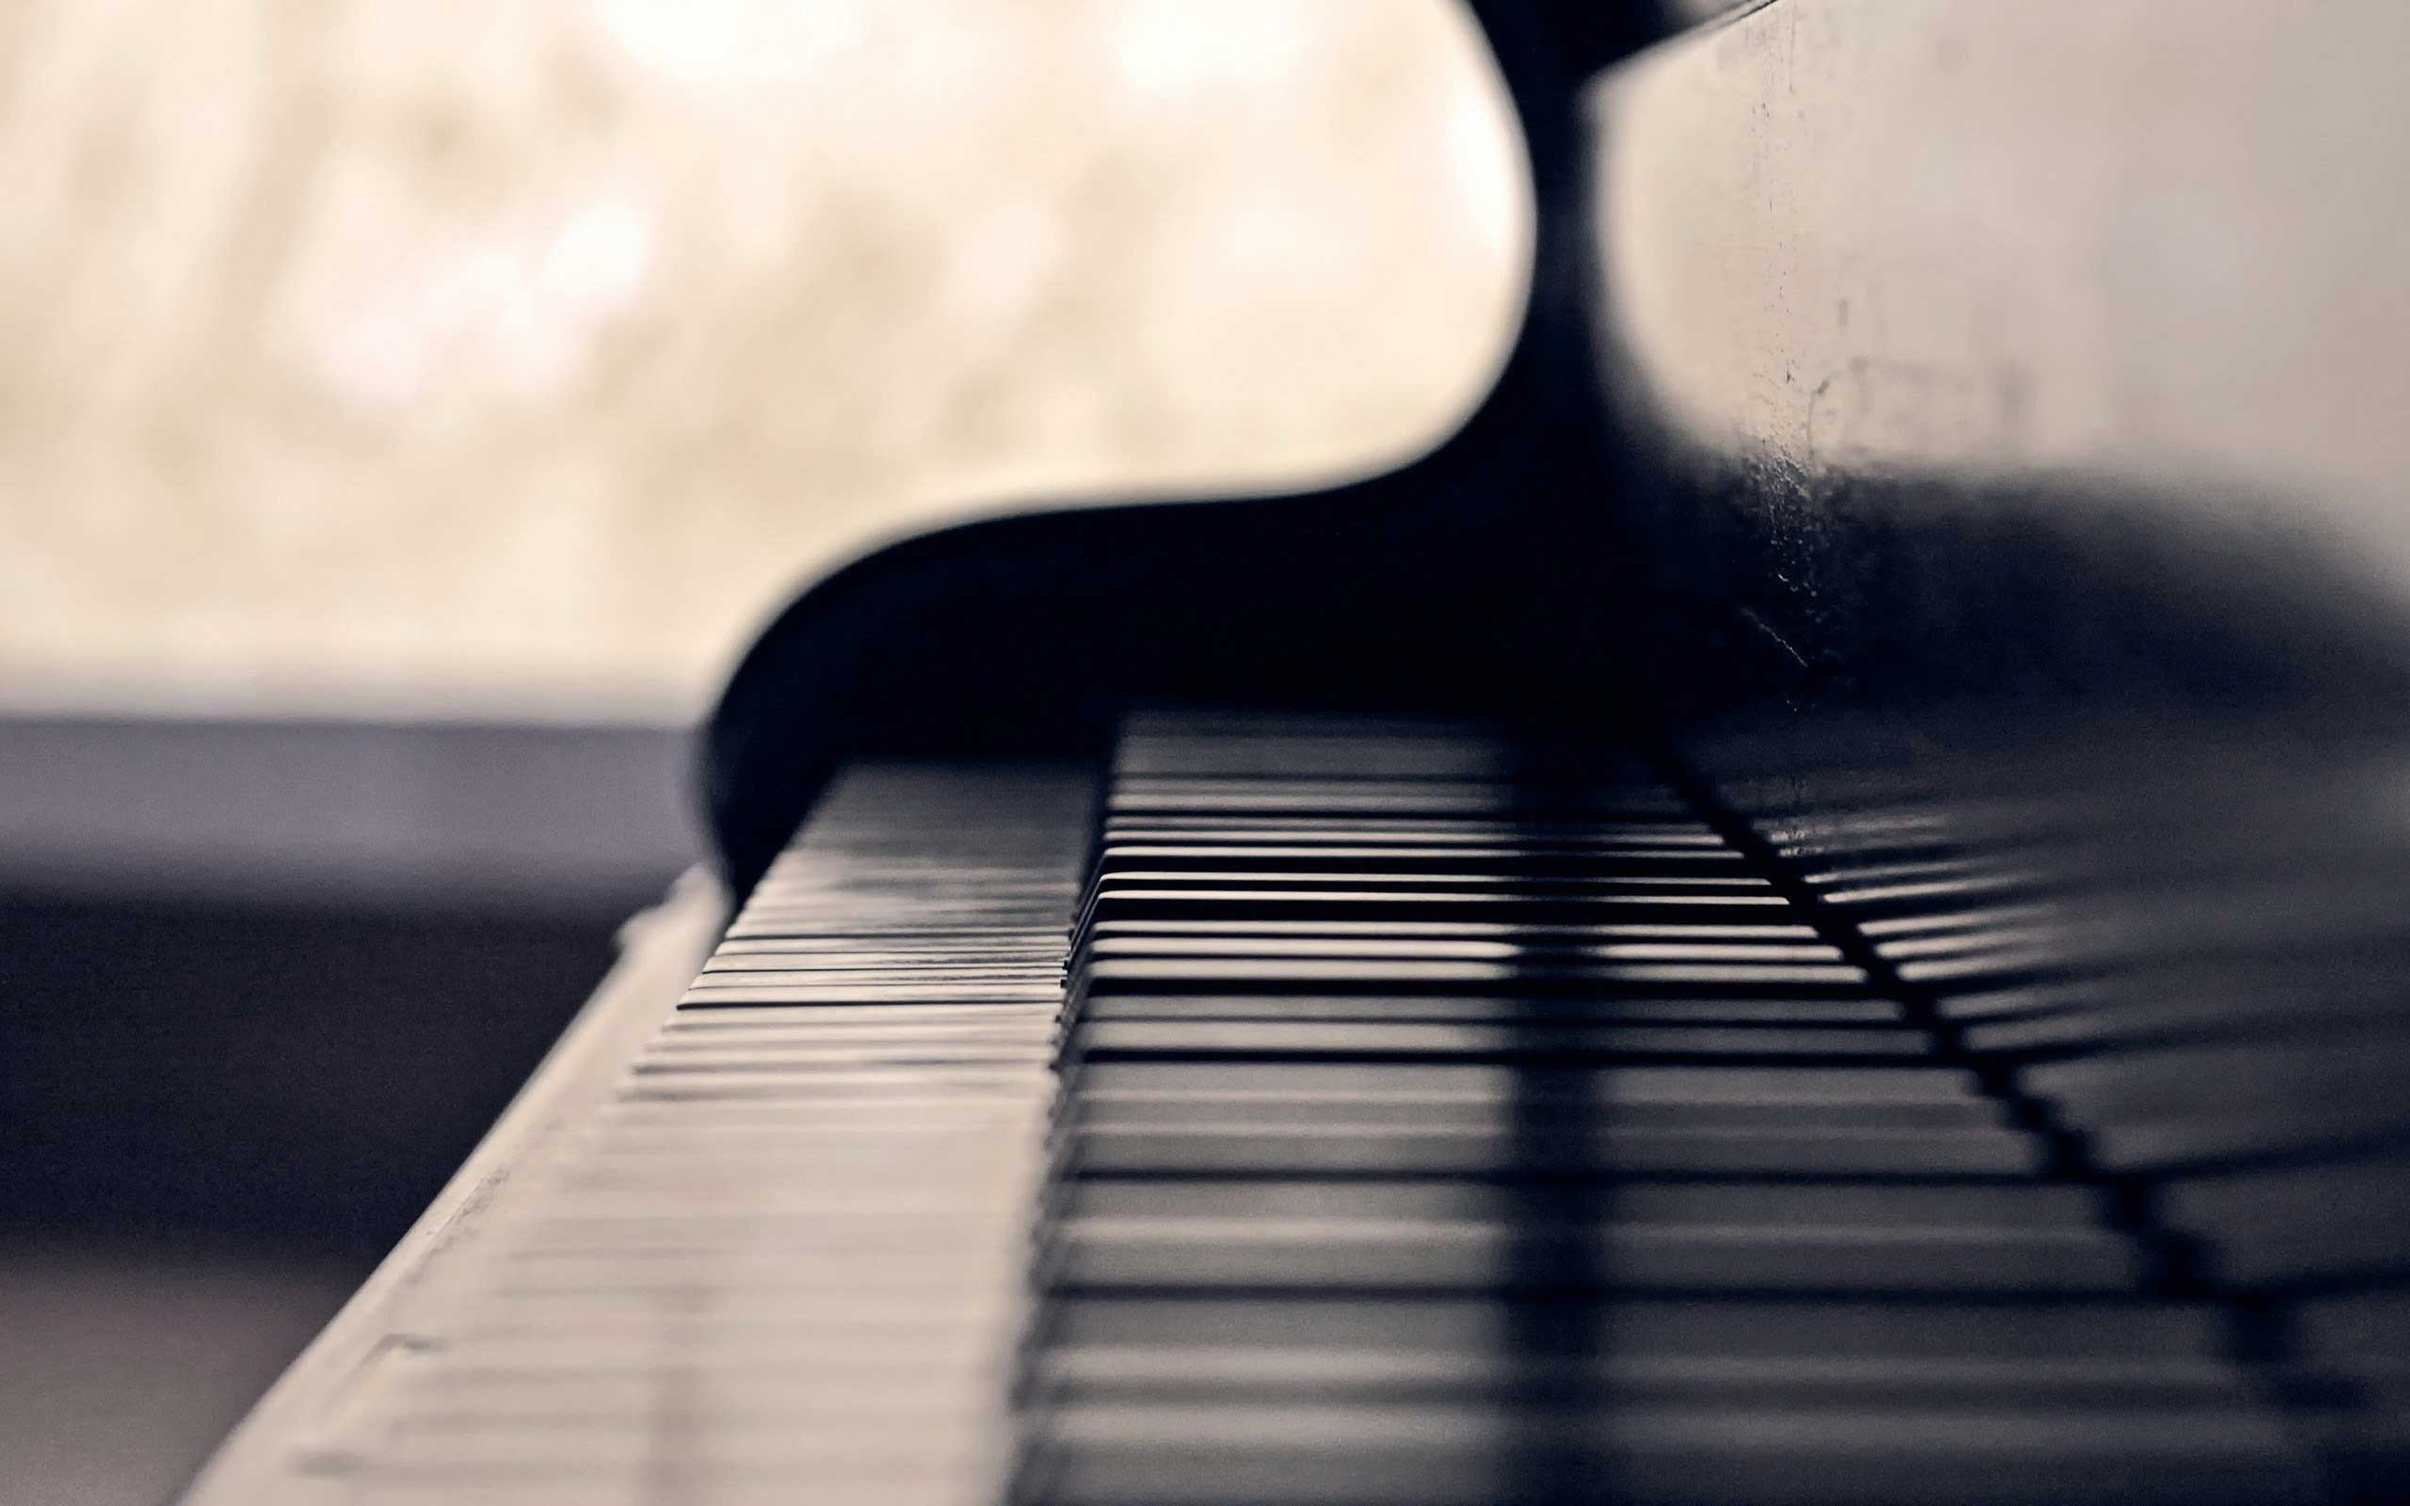
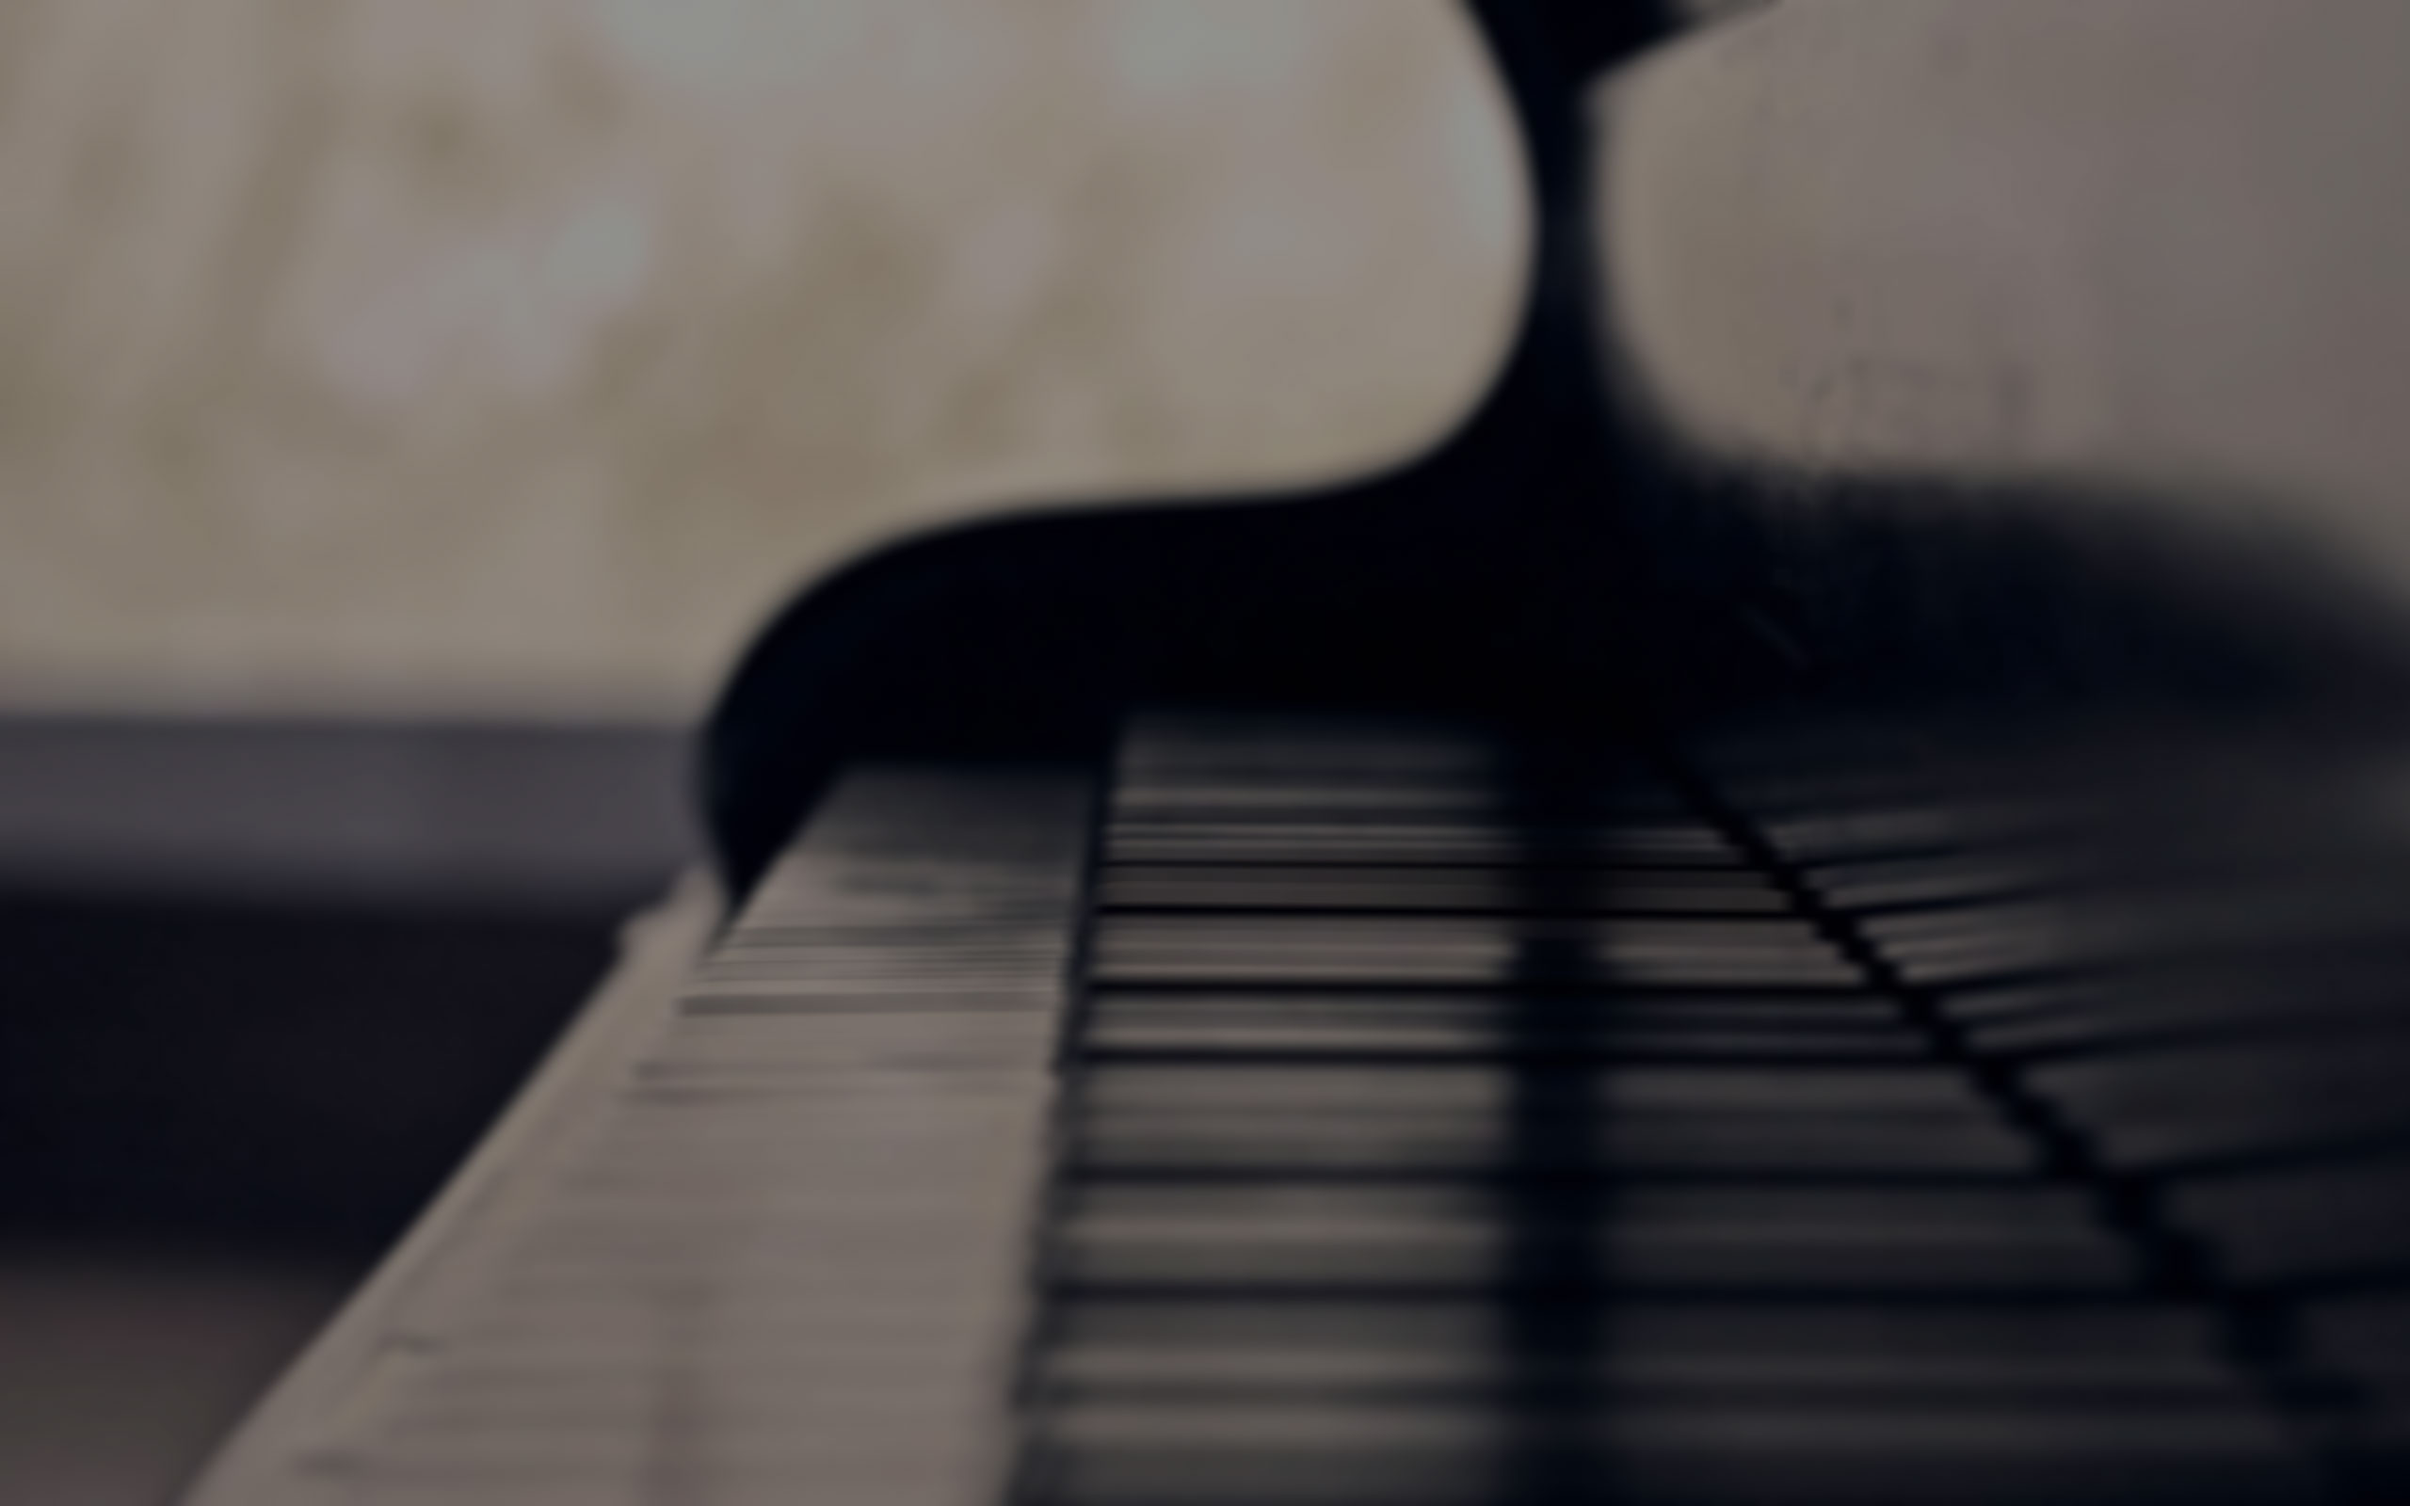
Start parallax theme

diff --git a/index.html b/index.html
@@ -584,7 +584,37 @@
 
         <!-- parallax -->
         <section class="parallax__container">
-            parallax
+            <h3>همکاران ما را دنبال کنید
+                <small>مشتریان ما</small>
+            </h3>
+            <hr />
+            <p>قالب گو، یک قالب بسیار زیبا دی ان ان می باشد که شامل صفحات پیش طراحی شده متنوع همچون صفحه اصلی، صفحه خدمات، صفحه
+                محصولات، صفحه معرفی سایت، مهارت ها، درباره ما، تماس با ما و ... می باشد که با چند کلیک می تواید یک سایت کامل
+                با تمام صفحات راه اندازی کنید.
+            </p>
+            <ul>
+                <li>
+                    <img src="assets/images/logo1.png" alt="">
+                </li>
+                <li>
+                    <img src="assets/images/logo2.png" alt="">
+                </li>
+                <li>
+                    <img src="assets/images/logo3.png" alt="">
+                </li>
+                <li>
+                    <img src="assets/images/logo4.png" alt="">
+                </li>
+                <li>
+                    <img src="assets/images/logo5.png" alt="">
+                </li>
+                <li>
+                    <img src="assets/images/logo6.png" alt="">
+                </li>
+                <li class="parallax-icon">
+                        <i class="fas fa-angle-down"></i>
+                </li>
+            </ul>
         </section>
 
         <!-- contact -->

diff --git a/assets/css/style.css b/assets/css/style.css
@@ -756,4 +756,31 @@ body .theme-button--big {
 .ourteam__container > div:last-child > div figure figcaption hr {
   border-top-color: #bbbbbb;
 }
+
+.parallax__container {
+  background-image: url("../images/piano.jpg");
+  background-attachment: fixed;
+  height: 300px;
+  background-size: 100%;
+  text-align: center;
+  color: #d3d3d3;
+  padding: 50px;
+}
+
+.parallax__container h3 {
+  color: #d3d3d3;
+}
+
+.parallax__container h3 small {
+  color: #d3d3d3;
+}
+
+.parallax__container ul {
+  list-style-type: none;
+  padding: 0px;
+}
+
+.parallax__container ul li {
+  float: left;
+}
 /*# sourceMappingURL=style.css.map */

diff --git a/assets/css/modules/main_modules/_parallax.scss b/assets/css/modules/main_modules/_parallax.scss
@@ -1,0 +1,27 @@
+//-----------------------------------//
+//             parallax              //
+//       Called by _main.scss        //
+//-----------------------------------//
+.parallax__container{
+    background-image: url('../images/piano.jpg');
+    background-attachment: fixed;
+    height: 300px;
+    background-size: 100%;
+    text-align: center;
+    color: #d3d3d3;
+    padding: 50px;
+    h3{
+        color: #d3d3d3;
+        small{
+            color: #d3d3d3;
+        }
+    }
+    ul{
+        list-style-type: none;
+        padding: 0px;
+        li{
+            float: left;
+        }
+    }
+    
+}

diff --git a/assets/css/modules/_main.scss b/assets/css/modules/_main.scss
@@ -163,3 +163,8 @@ body {
 //              ourteam              //
 //-----------------------------------//
 @import "main_modules/ourteam";
+
+//-----------------------------------//
+//              parallax              //
+//-----------------------------------//
+@import "main_modules/parallax";
